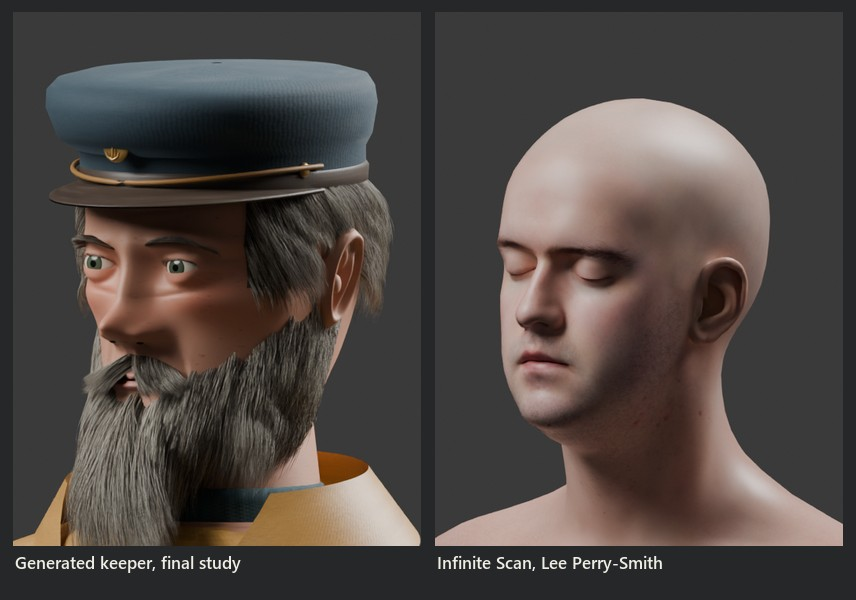
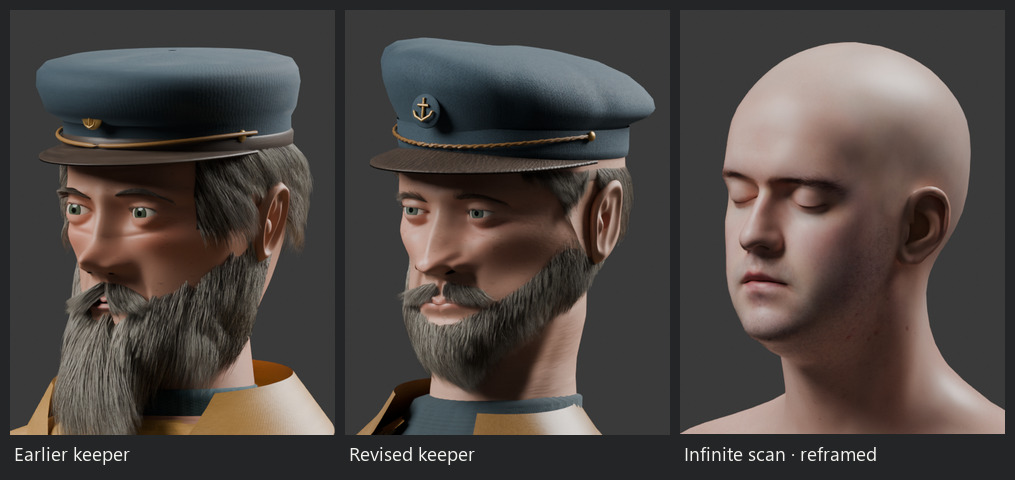
Show the revised keeper beside his first sculpt and in the packaged game

diff --git a/docs/guides/drift-keeper.md b/docs/guides/drift-keeper.md
@@ -1,16 +1,25 @@
 # The keeper of Stacks Light
 
-Sail past Stacks Light in daylight and the keeper turns towards the boat.
-Within 62 m he waves once. Sail beyond 78 m and he can greet the next approach.
-He watches out to 115 m. From 18:30 until 06:00 he raises his brass lantern.
-He stands on the granite tread with his feet planted. His boots, ochre oilskin
-and the light in his left hand give him a silhouette you can read from the water.
+The keeper of Stacks Light watches the boat inside 115 m. Within 62 m in
+daylight he waves once. Sail beyond 78 m to reset his greeting. From 18:30
+until 06:00 he raises the lantern in his left hand.
 
-![The keeper raises a brass lantern at the Stacks Light door in the packaged game](../images/drift-keeper/packaged.jpg)
+![The keeper before and after revision, alongside the reference scan](../images/drift-keeper/keeper-and-scan.jpg)
 
-The packaged OpenGL runtime drew this view from the inspection camera with
-the cooking project’s keeper model folder renamed. The ordinary menu’s Continue
-button restores the voyage with the boat camera.
+The three-quarter comparison shows the original design, the revised keeper and the
+licensed *Infinite, 3D Head Scan*. All three are Blender renders. The scan is
+reframed and has closed eyes. Look at the curve from the temple into the eye
+socket, the shadow at the nostril and the transition from the lip to the chin.
+The shorter beard exposes the keeper's lower face. His lips and moustache still
+separate in a hard arc, and the cheeks have a smoother surface than the scan.
+The head falls short of the human showcase close-up for #1402. The keeper
+appears in Drift, and `DigitalHuman.olo` continues to use the scan.
+[Human-head acceptance issue](https://github.com/drsnuggles8/OloEngineBase/issues/1402)
+
+The right panel shows *Infinite, 3D Head Scan* by Lee Perry-Smith
+(Triplegangers). Morgan McGuire and Guedis Cardenas converted the files.
+Keijiro Takahashi prepared the FBX distribution. The scan and its
+render carry CC BY 3.0. [Attribution chain](../../OloEditor/assets/models/InfiniteScanHead/README.md) · [Licence](https://creativecommons.org/licenses/by/3.0/)
 
 ## Drawing the figure
 
@@ -27,7 +36,7 @@ were used to compare landmarks and silhouettes.
   [US Lighthouse Society archive](https://archives.uslhs.org/people/marcus-hanna) · [Public-domain portrait record](https://commons.wikimedia.org/wiki/File:Marcus_Hanna,_Lighthouse_keeper_at_Cape_Elizabeth_ME.jpg)
 - In Hill and Adamson's Newhaven group (1843–47), the middle man's fingertips
   hang 54% of the way from cap to sole and his jacket ends at 46%. The keeper
-  has a longer storm coat, with a separate cape to shed spray from the shoulders.
+  has a longer storm coat, with a doubled yoke across the back and a split front below the lower fastening.
   David Octavius Hill and Robert Adamson, *Alexander Rutherford, William Ramsay
   and John Linton*. National Gallery of Art, Paul Mellon Fund. Public domain.
   [Photograph](https://www.nga.gov/artworks/137713-alexander-rutherford-william-ramsay-and-john-linton)
@@ -47,134 +56,117 @@ Its standing height is 7.54 heads, close to the seven to seven and a half
 used in the Seattle Art Museum's figure-drawing exercise.
 [Gallop portrait, National Park Service](https://www.nps.gov/people/petergregorygallop.htm) · [Seattle Art Museum, appendix C](https://www1.seattleartmuseum.org/EuropeanMasters/imgs/KenwoodHouseERG.pdf)
 
-## Under the uniform
+## Revising the head
 
-The first anatomical study joined separate muscle volumes. In profile the
-patella and calf protruded like joints on a wooden figure. The second used
-smooth cross sections through the shoulders, wrists, knees and ankles. Each
-foot has five toes. The final pose study exposed a wrist incorrectly weighted
-to the trunk at hip height. Weighting the arm by its own surface fixed the
-stretched wrist. At the armpit the most stretched mesh edge still lengthens
-by 22 mm in the held wave. The fitted outer sleeve conceals that crease in Drift.
+![Earlier and revised untextured heads at the same front, three-quarter and profile cameras](../images/drift-keeper/face-development.jpg)
 
-![First muscle study, revised standing front and profile, and the waved arm on the unclothed rig](../images/drift-keeper/anatomy.jpg)
+These clay renders use the same camera, scale and lights in each column.
+Removing the cap, beard and skin colour reveals why the first face read as a
+mask. The cheek stayed almost as broad at the mouth as it was below the eye.
+In profile the lower lid projected ahead of the cheek and the nose ended in
+a sharp shelf. The revised cheek turns inward towards the mouth, the jaw
+narrows before the chin, and the skin folds from each nostril towards the
+upper lip. Each 12.6 mm eye sits 3 mm farther back in its socket. A rounded
+helix now folds back into the ear bowl. The smooth scalp and near-level
+mouth remain conspicuous in the bare front view.
 
-## What changed in the studies
+![Revised keeper's face from the front, three-quarter, profile and above](../images/drift-keeper/four-views.jpg)
 
-![Four successive three-quarter views showing the bare construction and three revisions of the haired face](../images/drift-keeper/face-development.jpg)
+The revision shortened the beard and exposed more of the mouth, lowered the
+moustache near the corners and let the ends split into locks. The recipe grows
+23,000 beard strands, 3,800 moustache strands, 13,500 scalp hairs, 850 brow
+hairs and 270 lashes. In the left blink the left lash roots move a median
+3.41 mm. The right lash roots stay still and reopening the eye restores
+the starting positions. The beard gains darker roots and silver patches. Its
+edge along the cheek is still sharply drawn in profile. Light from above
+catches the cloth of the cap and the grain on the leather peak separately.
 
-The first pass exposed the sockets and mouth in Workbench. Flat planes ran
-across the lower orbits, and the visible teeth looked like a row fixed to the
-front of the mouth. The first strand pass established the beard silhouette but
-produced an almost white sheet with a straight part down the centre. Mixing
-silver and brown by follicle broke up that sheet. The cap gained a cord and
-peak, the lashes acquired fitted roots, and the cut of the shoulder cape became
-visible at full length. The fifth study rounded the ear bowl and lip volume and
-narrowed the cloth where the trousers enter the boots. The sixth recessed the eyes, added colour to the wind-exposed cheeks, shortened guard hairs at the beard line and advanced one boot on the tread.
+## Stance and work clothes
 
-![Four views of the keeper at face distance](../images/drift-keeper/four-views.jpg)
+![The revised unclothed figure standing and waving](../images/drift-keeper/anatomy.jpg)
 
-Read the head from the side as well as from the front. The peak leaves room for
-the eyes to turn. The nose projects sharply, the neck stands upright and the
-hair ends in a nearly level fringe across the back of the head. From above,
-the strong line under each eye and the sharply drawn cheek line of the beard
-still read as graphic shapes. These are fixed-camera Blender studies. In
-OloEngine, the eye and oral profiles, hair rendering, lighting and LOD changes
-also affect the result.
+The earlier keeper stood squarely with his arms hanging beside his legs.
+The revised pelvis sits 54 mm towards his weight-bearing right boot and
+17 mm lower. The left ankle is 58 mm forward of the right in the exported
+rest pose. The knees bend to reach the planted soles, the pelvis and chest
+turn in opposite directions and the lantern draws the left shoulder lower.
+The unclothed study shows how the bare hip, knee and ankle line up under
+the uniform. At full wave one edge at the bare armpit stretches by 22.1 mm.
 
-## Hands, expression and motion
+![Earlier and revised dressed stance, wave, lantern raise, blink, smile and two mouth shapes](../images/drift-keeper/movement.jpg)
 
-![The keeper at rest, waving, raising the lantern, blinking, opening his mouth and forming a rounded vowel](../images/drift-keeper/movement.jpg)
+The original coat had a closed front and a separate sleeve that peaked when
+the arm rose. Three clothing studies changed the cut. The upper sleeve joins
+an oval armhole with a short underarm edge and a long outer edge. Two open
+fronts overlap beneath the buttons, then roll back to show the gansey. Creases
+radiate from the waist fastening and welted pockets. The boot shafts turn down
+over the tucked trousers. The curved cap crown drops over one temple. Wool,
+leather and cotton weave use generic CC0 surface scans. The diamond-pattern
+knit and skin pores are procedural. [Surface sources](../../OloEditor/SandboxProject/Assets/Models/DriftKeeper/SurfaceSources.md)
 
-The wave shows the right palm and the left fingers curl round the lantern bail.
-The fingers have separate profiles, pads and nails. Each hand has one joint,
-so the fingers keep their authored curl during the gesture. The wave is driven
-by the shoulder, elbow and wrist. Clothing folds and the flare at the cuff
-travel with those joints. The elbows remain sharply defined at the top of the
-wave. The raised sleeve meets the cape in a hard ridge. The torso shifts
-little compared with the reach of the arm. In the earlier lantern pose the
-right arm stayed up from the wave and the lamp tilted with the left forearm.
-Rest keys now release the right shoulder, and a joint at the bail keeps
-the lantern upright as the hand rises.
+The wave lifts the open right palm. On the left, the modelled fingers curl under
+the wire grip. Its midpoint is the lantern pivot, so the lamp can stay upright
+as the wrist turns. Each hand has one joint and keeps its finger shape throughout
+the gesture. One sharp fold persists at the waved elbow, and the pocket and
+cuff corners are stiff. The fitted coat shows its construction more clearly
+than it shows years of use.
 
-The upper and lower lids wrap each globe. A full blink closes the aperture.
-The lower lip and dental arch descend for the open vowel. The cheeks move only
-a little on a smile, and the thick moustache obscures much of the mouth. The
-teeth are individually modelled, but their regular spacing and similar shapes
-are apparent on inspection. The neck, shoulders and jaw lack the secondary
-flesh movement of a speaking or gesturing person. The beard carries direction
-and length across the jaw, yet the cut edge above each cheek is unusually crisp.
+The blink closes one lid over its globe. At full weight, the largest left-blink
+skin displacement in LOD 0 is 4.34 mm. In the open jaw the largest lip
+displacement is 17.75 mm and the lower dental arch moves up to 14.04 mm.
+The smile lifts the ends of the lips while the cheeks move less. Teeth,
+gums and tongue have their own material surfaces. The teeth are unusually
+regular and the centre of the rounded mouth retains a pronounced notch.
 
-In the blink study the lash roots follow the posed eyelid surface. The median
-left-root displacement is 4.03 mm with the left lid closed, while the right
-lashes stay at rest. The hand and neck UVs sample neutral skin behind the
-pigmented cheek and nose charts.
+## Silhouette at distance
 
-## Comparing the face
+![The three body outlines and the differences between the first and last tier](../images/drift-keeper/silhouette.jpg)
 
-![The generated keeper and a textured render of the Infinite Scan bust from the same three-quarter direction](../images/drift-keeper/keeper-and-scan.jpg)
+The three body meshes contain 168,824, 47,620 and 20,070 triangles.
+The corresponding 520 × 680 orthographic renders cover 72,265, 71,980 and
+71,276 pixels at an alpha threshold of one half. Intersection divided by
+union is 99.52% for tiers 0 and 1, and 98.57% for tiers 0 and 2. The
+fourth panel marks pixels present only in tier 0 in amber and pixels present
+only in tier 2 in blue. These measurements include the shared head attachments.
+In the game the second tier starts beyond 18 m and the third beyond 78 m.
+The silhouette test holds the camera and pose fixed so the change of mesh
+is visible at the same scale.
 
-Both busts use the same viewing direction. The scan has a different crop,
-closed eyes and exposed cheeks. Compare where light rolls from the temple
-into the socket and from the nostril into the upper lip. The scan carries
-small changes of curvature and colour through those transitions. The keeper's
-nose, brow and cheek still meet in distinct planes. The keeper's separable eyes
-and mouth serve his Drift rig, but the close-up falls short of the scanned
-reference. `DigitalHuman.olo` continues to use the scan.
-[Human-head acceptance issue #1402](https://github.com/drsnuggles8/OloEngineBase/issues/1402)
+## At Stacks Light
 
-The right panel is a Blender render, reframed for this comparison, of *Infinite,
-3D Head Scan* by Lee Perry-Smith (Triplegangers). Morgan McGuire and Guedis
-Cardenas converted the files. Keijiro Takahashi prepared the FBX distribution.
-The scan and its render carry CC BY 3.0. [Attribution and source chain](../../OloEditor/assets/models/InfiniteScanHead/README.md) · [Licence](https://creativecommons.org/licenses/by/3.0/)
+The keeper stands on the second tread below the door. A triangle intersection
+check sampled 13 poses in each of the three revised clips and found zero
+body intersections with the tower, stairs or rail. A downward ray from
+each of 41 low vertices per boot hit the granite. The closest samples were
+3.07 mm above the tread on the right and 0.27 mm on the left. Breathing
+starts at the spine to keep the boots planted during idle. The tower parents the
+keeper. Each eye follows its own bone. A separate head attachment carries
+the skin beneath the groom and keeps the same triangle indices across body
+LODs. The lamp light follows the wick socket.
+[Model contract and regeneration commands](../../OloEditor/SandboxProject/Assets/Models/DriftKeeper/README.md)
 
-## In the scene
+## In-engine captures
 
-`Stacks Light` parents the keeper, so moving the tower moves him with the
-steps. A triangle-intersection check at thirteen poses per clip found clearance
-from the door, treads and rail through idle, wave and lantern raise. The initial
-position put the heels through the raised door sill. On the final tread the two
-heel samples are within 3 mm of the granite. The body supplies the pose and nine expression targets. Each eye has
-its own bone attachment. A second head attachment carries the pigmented skin
-under the groom. Its triangle indices stay fixed as the body changes LOD, so
-each beard, brow or lash root keeps its binding. The cook contains 23,000 beard
-curves, 3,800 moustache curves, 13,500 scalp hairs, 2,100 brow hairs and 270
-lashes. The lantern's light follows a socket at its wick.
+![Keeper with lantern at the door in the packaged OpenGL runtime](../images/drift-keeper/packaged.jpg)
 
-The three body meshes have 95,088, 26,124 and 11,088 triangles. At the same
-three-quarter pose and orthographic scale, their silhouettes cover 76,941,
-76,625 and 75,789 pixels in 520 × 680 frames. Thresholding alpha at one
-half gives 99.52% overlap between tiers 0 and 1 and 98.49% between tiers 0
-and 2 (intersection divided by union). This measures the outline, including
-the shared head attachments. Use the model README to regenerate the body and
-paired groom assets. To check a change in the
-game, inspect the eyes, mouth, shoulder and lantern separately in close-up,
-then look back at the tower from 30 and 150 metres. The face detail disappears
-first. The coat hem, cap peak and bent arm carry the gesture farther.
-[Asset contract and regeneration commands](../../OloEditor/SandboxProject/Assets/Models/DriftKeeper/README.md)
+This inspection view came from the packaged OpenGL runtime with the cooking
+project’s keeper source folder renamed. The menu’s Continue button restores
+the voyage with the boat camera.
 
+From 2.5 m above the water the stack hides the door on some bearings. These
+approaches use 225° at 30 m and 240° at 150 m, measured from world +X
+towards +Z. Moving the keeper out of frame and back changed and restored
+15 of 35 sampled entity IDs at 30 m and 11 of 35 at 150 m. At the longer
+distance, the coat occupies just a few pixels against the doorway.
 
-## From the water
+![Keeper from sea level at 30 m and 150 m with keeper-on and keeper-off crops](../images/drift-keeper/approach.jpg)
 
-At a helm height of 2.5 m the stack hides the door on some bearings. The
-30 m view below looks in from 225° measured from world +X towards +Z. Its
-seabed is 7.22 m below sea level. The 150 m camera uses 240°. At 30 m the
-oilskin and dark trousers separate across the rail. At 150 m the coat covers
-a few amber pixels in the doorway. At 30 m, 16 of 35 sampled entity IDs changed when the keeper moved out of view
-and returned when he moved back. At 150 m, 19 of 35 did the same.
-The crops show exactly which part of the doorway he occupies.
+![Face in OpenGL and Vulkan across Forward, Forward+ and Deferred](../images/drift-keeper/render-paths.jpg)
 
-![Full Drift from sea level at 30 m and 150 m with enlarged keeper-on and keeper-off crops](../images/drift-keeper/approach.jpg)
+Tower lighting brings out a hard shadow under the cheekbone. In OpenGL
+Deferred, hiding the groom changed 89,746 pixels at native resolution,
+86,602 with 4× MSAA and 45,568 with Temporal Quality upscale. Each count
+excludes pixels that moved by less than 4/255 or at most twice the
+repeat-frame difference.
 
-The fixed-camera close-ups use the tower, sun, body, eye profiles and bound
-hair from the shipped scene. Each has a matching groom-off frame. In OpenGL
-Deferred, the 4× MSAA pair changed 113,248 pixels above the repeat-control
-noise threshold. Temporal Quality upscale changed 84,035 pixels.
-
-![The same face in OpenGL and Vulkan on Forward, Forward+ and Deferred](../images/drift-keeper/render-paths.jpg)
-
-These five editor views hold the doorway and camera still while changing
-the Drift weather state and clock. At night the doorway falls into shadow.
-The keeper raises his lamp when the Lua controller is running in Play.
-
-![Clear, Overcast, Storm, dusk and night at the station door](../images/drift-keeper/weather.jpg)
+![Keeper at the station door in Clear, Overcast, Storm, dusk and night](../images/drift-keeper/weather.jpg)
